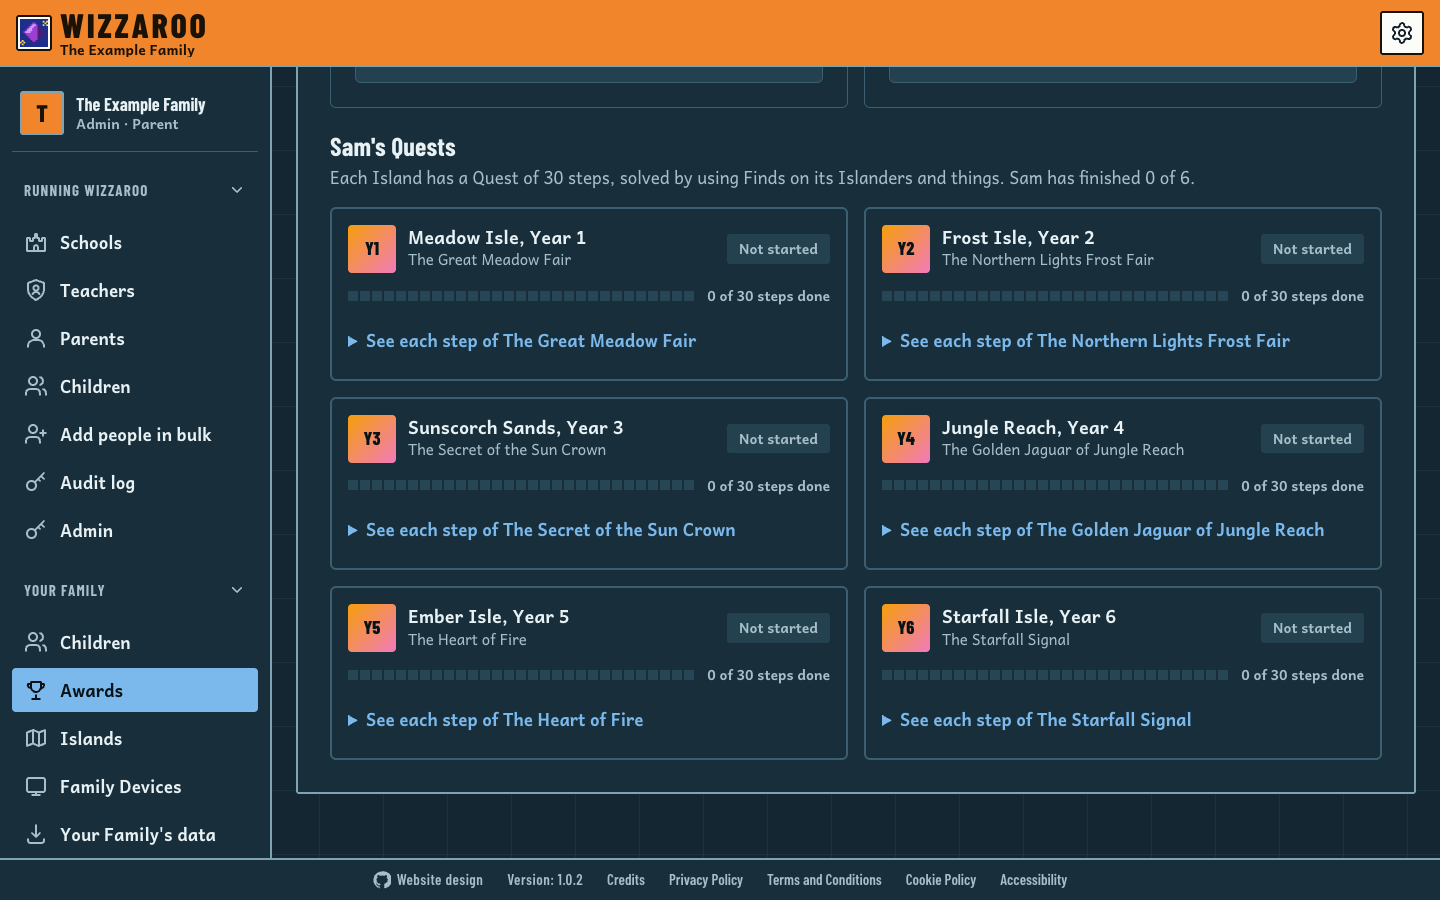
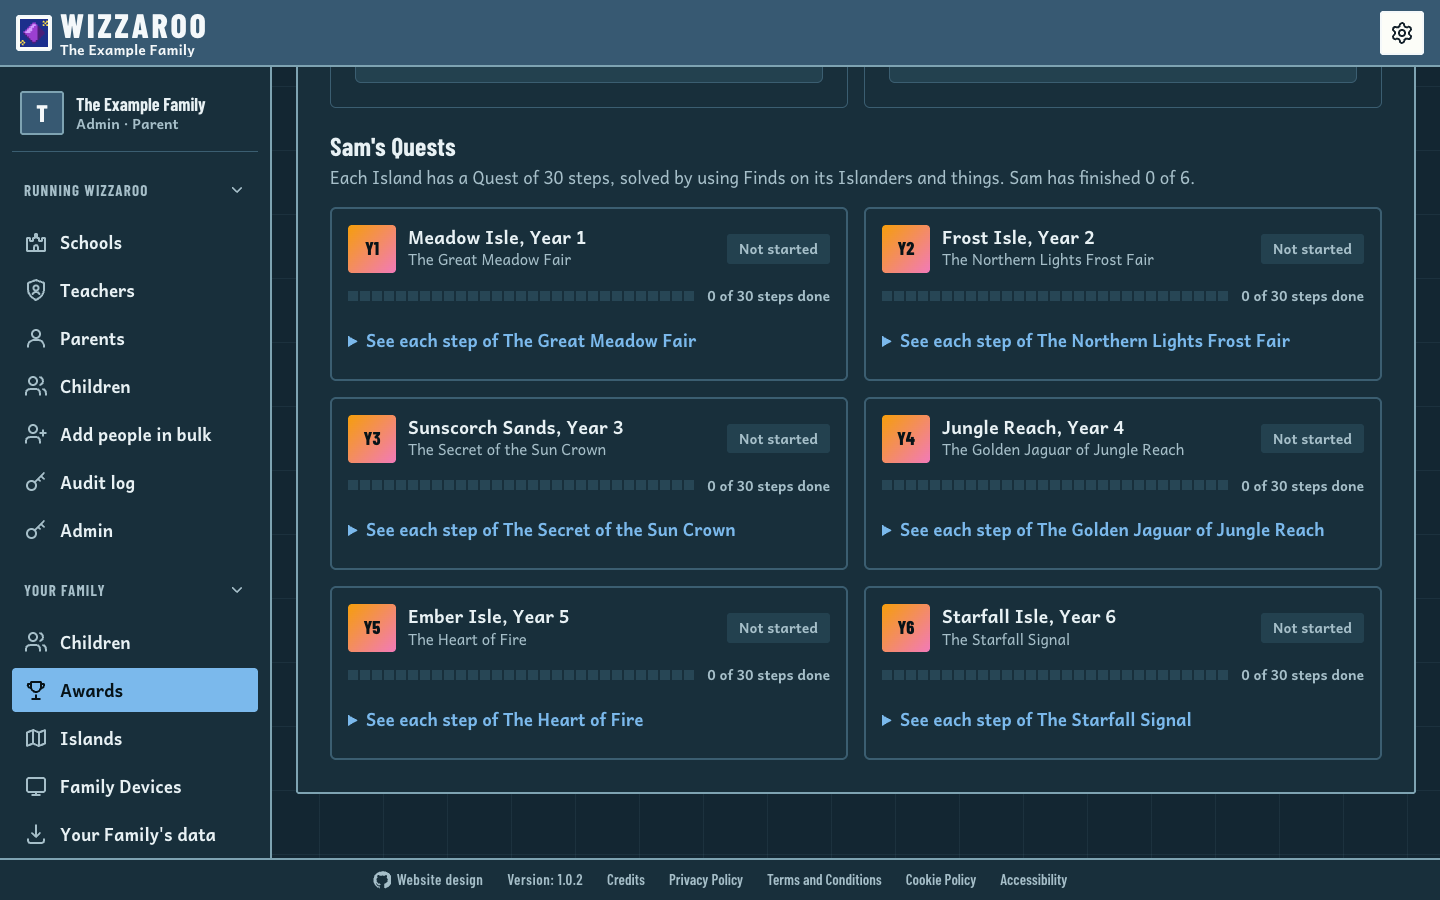
feat: print the top bar in the theme's colour and fit the Picture Password on one screen
The header, the home page's main button and closing band, the sidebar
crest and "One more go" now take the chosen theme's colour (a deeper
shade of it in dark mode) instead of a fixed orange, and the README
banner is redrawn in Sky blue. The Picture Password screen fits one
screen: in landscape the greeting and buttons sit beside the pictures,
and the picture tiles shrink with the screen's height.

Changed region(s): [[0.0, 0.0, 1.0, 0.1556]]

diff --git a/src/client/theme.css b/src/client/theme.css
@@ -93,12 +93,9 @@
   color-scheme: light dark;
 
   /* The Island Explorer Map: every screen is a sheet of the map. The ground is
-     the sea, panels are land, the header is the sheet's orange cover band, and
+     the sea, panels are land, the header is the sheet's cover band, printed in the theme's ink, and
      map lettering is condensed. */
   --colour-on-primary: light-dark(#ffffff, #071318);
-  --colour-cover: light-dark(#f27a1a, #f0852b);
-  --colour-cover-strong: light-dark(#d4610a, #f59a4e);
-  --colour-on-cover: #1a1206;
   --colour-map-magenta: light-dark(#b8166f, #f27ab9);
   --colour-contour: light-dark(#a95a16, #d9965a);
   --colour-woodland: light-dark(#2f7d32, #7fcf77);
@@ -234,6 +231,17 @@
 
 :root,
 [data-theme] {
+  /* The cover band, the main way in and the back cover are printed in the
+     chosen theme's ink. */
+  --colour-cover: light-dark(
+    var(--colour-primary),
+    color-mix(in oklab, var(--colour-primary) 45%, #08161d)
+  );
+  --colour-cover-strong: light-dark(
+    var(--colour-primary-hover),
+    color-mix(in oklab, var(--colour-primary) 58%, #08161d)
+  );
+  --colour-on-cover: light-dark(var(--colour-on-primary), #f4f8fa);
   --colour-background: light-dark(
     color-mix(in oklab, var(--colour-primary) 9%, #e4f1f6),
     color-mix(in oklab, var(--colour-primary) 12%, #08161d)
@@ -4635,7 +4643,7 @@ a.button-link:active {
   box-shadow: var(--shadow-button-pressed);
 }
 
-/* The main way in is printed in the sheet's cover orange. */
+/* The main way in is printed in the cover band's ink. */
 a.button-link.cover {
   border-color: var(--colour-keyline);
   background: var(--colour-cover);
@@ -4659,13 +4667,13 @@ a.button-link.secondary:hover {
 }
 
 a.button-link.ink {
-  border-color: var(--colour-on-cover);
-  background: var(--colour-on-cover);
-  color: #fff4e8;
+  border-color: #14212b;
+  background: #14212b;
+  color: #fcfdf8;
 }
 
 a.button-link.ink:hover {
-  background: #3a2a14;
+  background: #24384a;
   color: #ffffff;
 }
 
@@ -5709,7 +5717,7 @@ a.button-link.ink:hover {
   color: var(--colour-muted-foreground);
 }
 
-/* The back cover: the sheet's orange band, with the way in set in ink. */
+/* The back cover: the sheet's cover band again, with the way in set in ink. */
 .home-call {
   display: grid;
   justify-items: start;
@@ -6147,7 +6155,7 @@ a.site-header-settings {
 .site-header .site-menu-toggle:hover,
 a.site-header-settings:hover {
   border-color: var(--colour-on-cover);
-  background: #ffe7d1;
+  background: color-mix(in srgb, var(--colour-primary) 16%, #fcfdf8);
   color: #14212b;
 }
 
@@ -6156,8 +6164,8 @@ a.site-header-settings:hover {
 }
 
 .site-header .site-menu-toggle[aria-expanded="true"] {
-  border-color: var(--colour-on-cover);
-  background: var(--colour-on-cover);
+  border-color: #14212b;
+  background: #14212b;
   color: #fcfdf8;
 }
 
@@ -6190,8 +6198,8 @@ a.site-header-settings:hover svg {
 }
 
 a.site-header-settings[aria-current="page"] {
-  border-color: var(--colour-on-cover);
-  background: var(--colour-on-cover);
+  border-color: #14212b;
+  background: #14212b;
   color: #fcfdf8;
 }
 
@@ -17347,4 +17355,52 @@ button.region-chip {
 .stacked-track > span,
 .home-hero-reward-meter span {
   border-radius: 0;
+}
+
+/* A Child's Picture Password fits one screen. Lying down (a laptop or a
+   tablet on its side) the greeting and the buttons sit beside the pictures;
+   stood up, the pictures shrink with the screen's height. */
+.menu .picture-grid button {
+  min-height: clamp(52px, 9dvh, 88px);
+  font-size: clamp(2rem, 5dvh, 3rem);
+}
+
+.menu form:has(> fieldset .picture-grid) {
+  gap: var(--space-3);
+}
+
+.menu form:has(> fieldset .picture-grid) > fieldset {
+  gap: var(--space-2);
+}
+
+@media (min-width: 48rem) and (orientation: landscape) {
+  main.menu:has(> form > fieldset .picture-grid) {
+    align-content: center;
+    max-width: 60rem;
+    min-height: calc(
+      100dvh - var(--site-header-height, 4rem) - var(--site-footer-height, 3rem)
+    );
+    padding-block: var(--space-4);
+  }
+
+  .menu form:has(> fieldset .picture-grid) {
+    grid-template-columns: minmax(0, 0.8fr) minmax(0, 1.2fr);
+    grid-auto-flow: row dense;
+    align-content: center;
+    column-gap: var(--space-6);
+  }
+
+  .menu form:has(> fieldset .picture-grid) > :not(fieldset) {
+    grid-column: 1;
+  }
+
+  .menu form:has(> fieldset .picture-grid) > fieldset {
+    grid-column: 2;
+    grid-row: 1 / span 8;
+    align-self: center;
+  }
+
+  .menu form:has(> fieldset .picture-grid) > h1 {
+    align-self: end;
+  }
 }

diff --git a/DESIGN.md b/DESIGN.md
@@ -2,10 +2,12 @@
 name: Wizzaroo
 description: Every HTML screen is a sheet of the explorer's map of six Islands.
 colors:
-  cover-orange: "#f27a1a"
-  cover-orange-strong: "#d4610a"
-  cover-orange-night: "#f0852b"
-  on-cover-ink: "#1a1206"
+  cover: "#1b5ea6"
+  cover-strong: "#144a85"
+  cover-night: "#375972"
+  cover-strong-night: "#466e8d"
+  on-cover: "#ffffff"
+  on-cover-night: "#f4f8fa"
   map-magenta: "#b8166f"
   map-magenta-night: "#f27ab9"
   keyline-ink: "#22323d"
@@ -19,6 +21,8 @@ colors:
   border-wash: "#b9cdd6"
   ink-foreground: "#14212b"
   ink-foreground-night: "#e8f1f4"
+  ink-hover: "#24384a"
+  cover-control-hover: "#d8e4eb"
   muted-ink: "#3b505d"
   input-border: "#5a7382"
   on-primary: "#ffffff"
@@ -119,14 +123,24 @@ components:
   button-secondary-hover:
     backgroundColor: "{colors.muted-land}"
   button-cover:
-    backgroundColor: "{colors.cover-orange}"
-    textColor: "{colors.on-cover-ink}"
+    backgroundColor: "{colors.cover}"
+    textColor: "{colors.on-cover}"
     typography: "{typography.label-lettering}"
     rounded: "{rounded.small}"
     padding: "0 1.5rem"
     height: "52px"
   button-cover-hover:
-    backgroundColor: "{colors.cover-orange-strong}"
+    backgroundColor: "{colors.cover-strong}"
+  button-ink:
+    backgroundColor: "{colors.ink-foreground}"
+    textColor: "{colors.land-paper}"
+    typography: "{typography.label-lettering}"
+    rounded: "{rounded.small}"
+    padding: "0 1.5rem"
+    height: "52px"
+  button-ink-hover:
+    backgroundColor: "{colors.ink-hover}"
+    textColor: "#ffffff"
   button-sheet:
     backgroundColor: "{colors.land-paper}"
     textColor: "{colors.ink-foreground}"
@@ -158,10 +172,21 @@ components:
     rounded: "{rounded.small}"
     padding: "1.5rem"
   cover-band:
-    backgroundColor: "{colors.cover-orange}"
-    textColor: "{colors.on-cover-ink}"
+    backgroundColor: "{colors.cover}"
+    textColor: "{colors.on-cover}"
     typography: "{typography.map-lettering}"
     padding: "0.5rem 1rem"
+  cover-control:
+    backgroundColor: "{colors.land-paper}"
+    textColor: "{colors.ink-foreground}"
+    rounded: "{rounded.small}"
+    height: "44px"
+  cover-control-hover:
+    backgroundColor: "{colors.cover-control-hover}"
+    textColor: "{colors.ink-foreground}"
+  cover-control-current:
+    backgroundColor: "{colors.ink-foreground}"
+    textColor: "{colors.land-paper}"
   sidebar-link:
     backgroundColor: "transparent"
     textColor: "{colors.ink-foreground}"
@@ -180,16 +205,16 @@ components:
 
 **Creative North Star: "The Island Explorer Map"**
 
-Every HTML screen is a sheet of the explorer's map: the home page, signing in, the Parent, Teacher and Admin pages, Settings, and the menus, panels and bars over the game. The page is the sea, ruled into 4rem grid squares. Panels are land, printed inside a 2px ink keyline with small square corners. The header is the sheet's orange cover band. Map lettering and headings are condensed; body text is set in a primer face for children still learning to read.
+Every HTML screen is a sheet of the explorer's map: the home page, signing in, the Parent, Teacher and Admin pages, Settings, and the menus, panels and bars over the game. The page is the sea, ruled into 4rem grid squares. Panels are land, printed inside a 2px ink keyline with small square corners. The header is the sheet's cover band, printed in the chosen theme's ink. Map lettering and headings are condensed; body text is set in a primer face for children still learning to read.
 
-The world refuses the ed-tech default of dark navy, gradient text and rows of rounded cards. Depth comes from the map's printed layers (sea, land, keyline), not from soft shadows, glass or gradients. Colour is functional, as on a real map: orange is the cover and the main way in, magenta marks routes, labels and focus, the user's theme colour inks links, buttons and chosen states.
+The world refuses the ed-tech default of dark navy, gradient text and rows of rounded cards. Depth comes from the map's printed layers (sea, land, keyline), not from soft shadows, glass or gradients. Colour is functional, as on a real map: the user's theme colour prints the cover and the main way in and inks links, buttons and chosen states; magenta marks routes, labels and focus.
 
 The system ships in light and dark ("sea-blue paper" by day, "night chart" in navy-teal by night) and in six theme printings. The product's default colour mode is Dark; that is a product setting and this system leaves it unchanged. The 3D world and the in-Game boards' own art are out of scope: they keep their own look, and Baloo 2 and Nunito remain bundled only for canvas lettering in the 3D world.
 
 **Key Characteristics:**
 
 - Sea ground ruled into map squares; land panels inside 2px keylines.
-- Orange cover band for the header, the closing call and the primary home action.
+- A cover band in the theme's ink for the header, the closing call and the primary home action.
 - Magenta for map labels, routes, lit grid references and every focus ring.
 - Barlow Condensed for map lettering and headings, Andika for reading.
 - Square corners (3px), never pills; true circles only where a symbol is round.
@@ -197,11 +222,11 @@ The system ships in light and dark ("sea-blue paper" by day, "night chart" in na
 
 ## Colors
 
-A printed map's inks: pale sea and land papers, one ink keyline, an orange cover, magenta overprint, and a theme ink that changes with the printing.
+A printed map's inks: pale sea and land papers, one ink keyline, magenta overprint, and a theme ink that changes with the printing and also prints the cover.
 
 ### Primary
 
-- **Cover Orange** (cover-orange; night cover-orange-night): the sheet's cover band. Fills the site header, the home closing call, the "every Island" map-key symbol, and the primary home action. Text on it is always On-Cover Ink, never white. Hover deepens to Cover Orange Strong; text selection is a 45% wash of it.
+- **Cover** (cover, cover-strong; night cover-night, cover-strong-night): the sheet's cover band, printed in the chosen theme's ink. Fills the site header, the parent sidebar crest, the home page's main action and closing call, the "every Island" map-key symbol, and the Mission celebration's "One more go" button. In the build it is `--colour-cover`: the theme ink by day, and by night `color-mix(in oklab, theme 45%, #08161d)`, a deep shade of the theme ink. Hover deepens to Cover Strong (the theme hover by day, a 58% mix by night). The frontmatter values are the default Sky printing. Text on it is On-Cover (`--colour-on-cover`): on-primary by day (white on Sky), near-white #f4f8fa by night. Text selection is a 45% wash of it.
 - **Theme Ink** (theme-sky by default, then theme-grape, theme-forest, theme-sunset, theme-berry, theme-lagoon): the user's chosen printing. Inks links, generic buttons, chosen and current states (active Region chip, current sidebar section, pressed Island chip), checkbox accents and chart bars. Each theme has a light and a night value and a deeper hover value.
 
 ### Secondary
@@ -226,11 +251,11 @@ A printed map's inks: pale sea and land papers, one ink keyline, an orange cover
 
 ### Named Rules
 
-**The Six Printings Rule.** The six themes are six printings of one map. A theme changes only the theme ink and a few percent of tint in sea, land, muted and border; cover orange, magenta and keyline ink never change with the theme.
+**The Six Printings Rule.** The six themes are six printings of one map. A theme changes only the theme ink and a few percent of tint in sea, land, muted and border; the cover follows the theme ink, while magenta and keyline ink never change with the theme.
 
 **The Chosen-Is-Theme, Focus-Is-Magenta Rule.** Chosen, current and pressed states take the user's theme colour. Focus is always a 3px magenta outline. Never swap them.
 
-**The Orange Cover Rule.** Orange is the cover: the header band, the main way in, and the closing call. Text on orange is On-Cover Ink (#1a1206), never white.
+**The Theme Cover Rule.** The cover is printed in the chosen theme's ink: the header band, the main way in, and the closing call. Text on it is always `--colour-on-cover`. Controls that sit on the band (Menu, Settings) stay light paper #fcfdf8 with ink #14212b, so they read on every printing.
 
 ## Typography
 
@@ -264,6 +289,8 @@ The home page sits inside a map sheet: a land frame whose margin carries grid re
 
 Adult pages add a 17rem sticky sidebar at 60rem and above. The site header is sticky at the top; the footer is sticky at the foot, and becomes static on phones on home and adult pages. Spacing steps are 0.25, 0.5, 0.75, 1, 1.5 and 2rem; fluid gaps use clamp between 1.5 and 3rem.
 
+The Picture Password screen (`.menu form:has(> fieldset .picture-grid)`) fits one screen. In landscape at 48rem and wider the greeting and buttons sit in a column (0.8fr) beside the picture grid (1.2fr), and the panel is centred vertically between the header and footer within 60rem. Picture tiles scale with viewport height: `min-height: clamp(52px, 9dvh, 88px)`, with their pictures at `clamp(2rem, 5dvh, 3rem)`.
+
 ## Elevation & Depth
 
 Flat print. Depth comes from the map's layers: land on sea, keylines around land, the cover band over the sheet. The card, hero, ground and button shadow tokens are all `none`. Only things that genuinely float over the sheet keep a short drop: an open menu, and the small play-bar controls over the 3D world. Pressing a button moves it down 1px rather than changing a shadow.
@@ -289,8 +316,10 @@ Square map symbols. Every panel, field, button and chip has the small corner (3p
 - **Shape:** small square corner (3px), 48px tall (52px for home actions), 1.5rem side padding.
 - **Primary (submit):** theme ink fill, on-primary text, Andika 700; form submits switch to condensed label lettering.
 - **Secondary (`type="button"`):** land paper with a 2px keyline and theme-ink text; hover shifts the border to theme ink and the fill to muted land.
-- **Cover action:** the main way in on the home page; cover orange with a keyline border and on-cover ink text, condensed 1.3125rem lettering; hover to cover orange strong.
+- **Cover action:** the main way in on the home page; cover fill with a keyline border and on-cover text, condensed 1.3125rem lettering; hover to cover strong.
 - **Sheet action:** land paper, keyline border, foreground ink; the companion to the cover action.
+- **Ink action:** the way in on the closing band; ink #14212b fill and border with paper #fcfdf8 text; hover to #24384a with white text. It holds on every printing because it never takes the theme.
+- **One more go:** the Mission celebration's replay button; cover fill, on-cover border and text, condensed 1.25rem.
 - **Hover / Focus / Press:** colour shifts over 150ms ease-out; press is a 1px drop over 200ms; focus is a 3px magenta outline offset 3px. Disabled is 50% opacity.
 
 ### Chips
@@ -314,7 +343,7 @@ Square map symbols. Every panel, field, button and chip has the small corner (3p
 
 ### Navigation
 
-- **Site header (cover band):** sticky, cover orange fill, 2px keyline rule beneath, the WIZZAROO title in uppercase map lettering, and Menu and Settings controls on light paper with on-cover ink borders. Focus rings inside the band are on-cover ink.
+- **Site header (cover band):** sticky, cover fill in the theme's ink, 2px keyline rule beneath, the WIZZAROO title in uppercase map lettering in on-cover, and Menu and Settings controls in light paper #fcfdf8 with ink #14212b text and on-cover borders. Their hover is a 16% theme tint on paper; pressed (open menu) or current (Settings page) is ink #14212b with paper text. Focus rings inside the band are on-cover.
 - **Play bar:** solid land with a keyline rule; tabs in condensed lettering inside a muted well; the current tab is land paper inked in the theme colour.
 - **Parent sidebar:** 17rem land column with a keyline on its right; 44px links in Andika 700; hover is muted land; the current section ("the square you are in") is filled with theme ink.
 - **Site footer:** sticky land strip with a keyline rule on top, condensed 0.9375rem links in muted ink; hover gives a 2px magenta underline.
@@ -336,13 +365,13 @@ Subjects as a legend: ruled rows (1px border wash) inside one keylined panel, ea
 - **Do** set headings in sentence case Barlow Condensed, and keep uppercase for map lettering.
 - **Do** keep reading text and generic button labels in Andika.
 - **Do** draw progress as squares (0.625rem squares, 0.125rem gaps) and routes as dashed magenta.
-- **Do** give every theme the same cover orange, magenta and keyline ink; only the theme ink and tints change.
+- **Do** print the cover in the chosen theme's ink and give every theme the same magenta and keyline ink; only the theme ink, the cover and tints change.
 
 ### Don't:
 
 - **Don't** use dark navy as a fixed brand ground, gradient text, or rows of rounded cards.
 - **Don't** give panels, cards or buttons soft ambient shadows; separation is land on sea inside a keyline.
-- **Don't** put white text on cover orange; use on-cover ink.
+- **Don't** hard-code a fixed cover colour or its text; use `--colour-cover` and `--colour-on-cover`, and keep band controls on light paper with ink text.
 - **Don't** use full pill radii on controls; the round token is 3px.
 - **Don't** use Baloo 2 or Nunito in HTML; they are for canvas lettering in the 3D world only.
 - **Don't** restyle the 3D world or the in-Game boards' own art with these tokens.

diff --git a/docs/guide/home-page-and-settings.md b/docs/guide/home-page-and-settings.md
@@ -27,6 +27,6 @@ Every page has a sticky title bar (`src/client/site-header/`) with a **Menu** an
 
 The footer under every page links to the source on GitHub, then shows the **Version**, which links to the GitHub Releases in a new tab, then **Credits**, the Privacy Policy, Terms and Conditions, Cookie Policy and Accessibility statement, each opening in a dialog (`src/client/site-footer/`). **Credits** names Adrian Eyre first, as Wizzaroo's creator, then the voice and sound, the fonts and the software Wizzaroo is built with, each with its licence (`credits.tsx`); changing a dependency, a font or the voice means changing that list in the same commit.
 
-Settings chooses **System** (the default, following the device), **Light** or **Dark**, and one of six themes: Sky, Grape, Forest, Sunset, Berry and Lagoon. The choice is kept in the browser's `localStorage` on that device only, and applied as `data-colour-mode` and `data-theme` on `<html>` before the page draws. Each theme is one block of colour tokens in `theme.css`, written with `light-dark()` so it carries its light and dark colours together, and every pairing meets WCAG AA contrast in both. The 3D world keeps its own palette whatever is chosen ([ADR 0003](../architectural-decision-record/0003-3d-with-a-retro-pixel-treatment.md)). Every theme is a printing of the same explorer's map, with the orange cover band across the top and the sea ruled into grid squares ([ADR 0074](../architectural-decision-record/0074-the-html-ui-is-drawn-as-an-explorers-map.md)).
+Settings chooses **System** (the default, following the device), **Light** or **Dark**, and one of six themes: Sky, Grape, Forest, Sunset, Berry and Lagoon. The choice is kept in the browser's `localStorage` on that device only, and applied as `data-colour-mode` and `data-theme` on `<html>` before the page draws. Each theme is one block of colour tokens in `theme.css`, written with `light-dark()` so it carries its light and dark colours together, and every pairing meets WCAG AA contrast in both. The 3D world keeps its own palette whatever is chosen ([ADR 0003](../architectural-decision-record/0003-3d-with-a-retro-pixel-treatment.md)). Every theme is a printing of the same explorer's map, with its cover band across the top in the theme's colour and the sea ruled into grid squares ([ADR 0074](../architectural-decision-record/0074-the-html-ui-is-drawn-as-an-explorers-map.md)).
 
 Settings also chooses the **reading voice** that **Read it to me** uses, from every voice on [Bryce Beattie's page](https://brycebeattie.com/files/tts/): nine voices of their own (LJ, LJ (high), Jenny, Cori (high), Cori, Kristin, John, Bryce and Norman), ManyVoice's 16 readers and Clean 100's 245, 270 in all, with Cori chosen by default. The chosen voice shows its name, a speech bubble, a **Hear** button and whether this device has downloaded it yet, and choosing one says hello in it. It is kept in `localStorage` on that device too. See [Voice-over](voice-over.md#read-it-to-me) and [ADR 0062](../architectural-decision-record/0062-read-it-to-me-speaks-with-every-piper-voice-on-the-device.md).

diff --git a/docs/architectural-decision-record/0074-the-html-ui-is-drawn-as-an-explorers-map.md b/docs/architectural-decision-record/0074-the-html-ui-is-drawn-as-an-explorers-map.md
@@ -2,11 +2,11 @@
 
 > **Personal use only.** Wizzaroo is intended for your own personal use only. It is not intended for use with or by a school, teacher, parent or student. Only use it for yourself.
 
-Wizzaroo is a world of six Islands, so every HTML screen (the home page, signing in, the Parent, Teacher and Admin pages, Settings, and the menus, panels and bars over the game) is drawn as a sheet of an explorer's map. The page is the sea, ruled into grid squares. Panels are land, printed inside a 2px keyline with small square corners. The header is the sheet's orange cover band. The home page sits in a map sheet whose edges carry grid references, A to H across and the Years 1 to 6 down. Its Subjects are a map key, and How it works is a dashed footpath between waypoints. Depth comes from these layers, not from soft shadows, glass or gradients.
+Wizzaroo is a world of six Islands, so every HTML screen (the home page, signing in, the Parent, Teacher and Admin pages, Settings, and the menus, panels and bars over the game) is drawn as a sheet of an explorer's map. The page is the sea, ruled into grid squares. Panels are land, printed inside a 2px keyline with small square corners. The header is the sheet's cover band, printed in the chosen theme's colour (a deeper shade of it in dark mode), and so are the home page's main button and its closing band. The home page sits in a map sheet whose edges carry grid references, A to H across and the Years 1 to 6 down. Its Subjects are a map key, and How it works is a dashed footpath between waypoints. Depth comes from these layers, not from soft shadows, glass or gradients.
 
 Headings, the cover band and map labels are set in Barlow Condensed. Body text is set in Andika, a typeface made for children learning to read, because a Year 1 Child must still find their way. Small text inside buttons stays in Andika for the same reason.
 
-The six themes stay, as six printings of the same map. Each inks the links, buttons and chosen states, and tints the sea and land a little towards itself. Light and dark both stay, and the default is unchanged.
+The six themes stay, as six printings of the same map. Each inks the cover band, links, buttons and chosen states, and tints the sea and land a little towards itself. Light and dark both stay, and the default is unchanged.
 
 ## Consequences
 

diff --git a/README.md b/README.md
@@ -6,7 +6,7 @@
 
 A 3D learning game for primary-school children, covering the UK National Curriculum for Years 1-6. Children earn Items for their own Character by learning. It is built for one family, runs as an offline-first PWA, and is self-hosted at `wizzaroo.adrianeyre.co.uk`.
 
-Every screen is drawn as a sheet of an explorer's map: the sea is ruled into grid squares, panels are land inside a keyline, and the header is the sheet's orange cover band. The home page below follows your GitHub theme, light or dark.
+Every screen is drawn as a sheet of an explorer's map: the sea is ruled into grid squares, panels are land inside a keyline, and the header is the sheet's cover band, in the colour of the chosen theme. The home page below follows your GitHub theme, light or dark.
 
 <picture>
   <source media="(prefers-color-scheme: dark)" srcset="docs/images/screenshots/home-page.png">

diff --git a/.impeccable/surfaces/src-client-family-device-home-page-tsx.md b/.impeccable/surfaces/src-client-family-device-home-page-tsx.md
@@ -30,3 +30,5 @@ Raises: controls keep honest physical states (leather shelf); sections as cleari
 Signature interaction: grid references light up along the frame edges as the pointer or focus moves over a panel; motion is a single unfold of the sheet on load (clip-path from the crease), reduced to none under prefers-reduced-motion.
 
 FINISH: unreviewed and undocumented is unfinished; this build ends with the finish review, the verdict, DESIGN.md, and every shipping raster carrying its provenance
+
+Amended at the user's request after the first build: the cover band (header, the home page's main action and closing band, the README banner) is printed in the chosen theme's colour, a deeper shade of it in dark mode, instead of a fixed orange.
